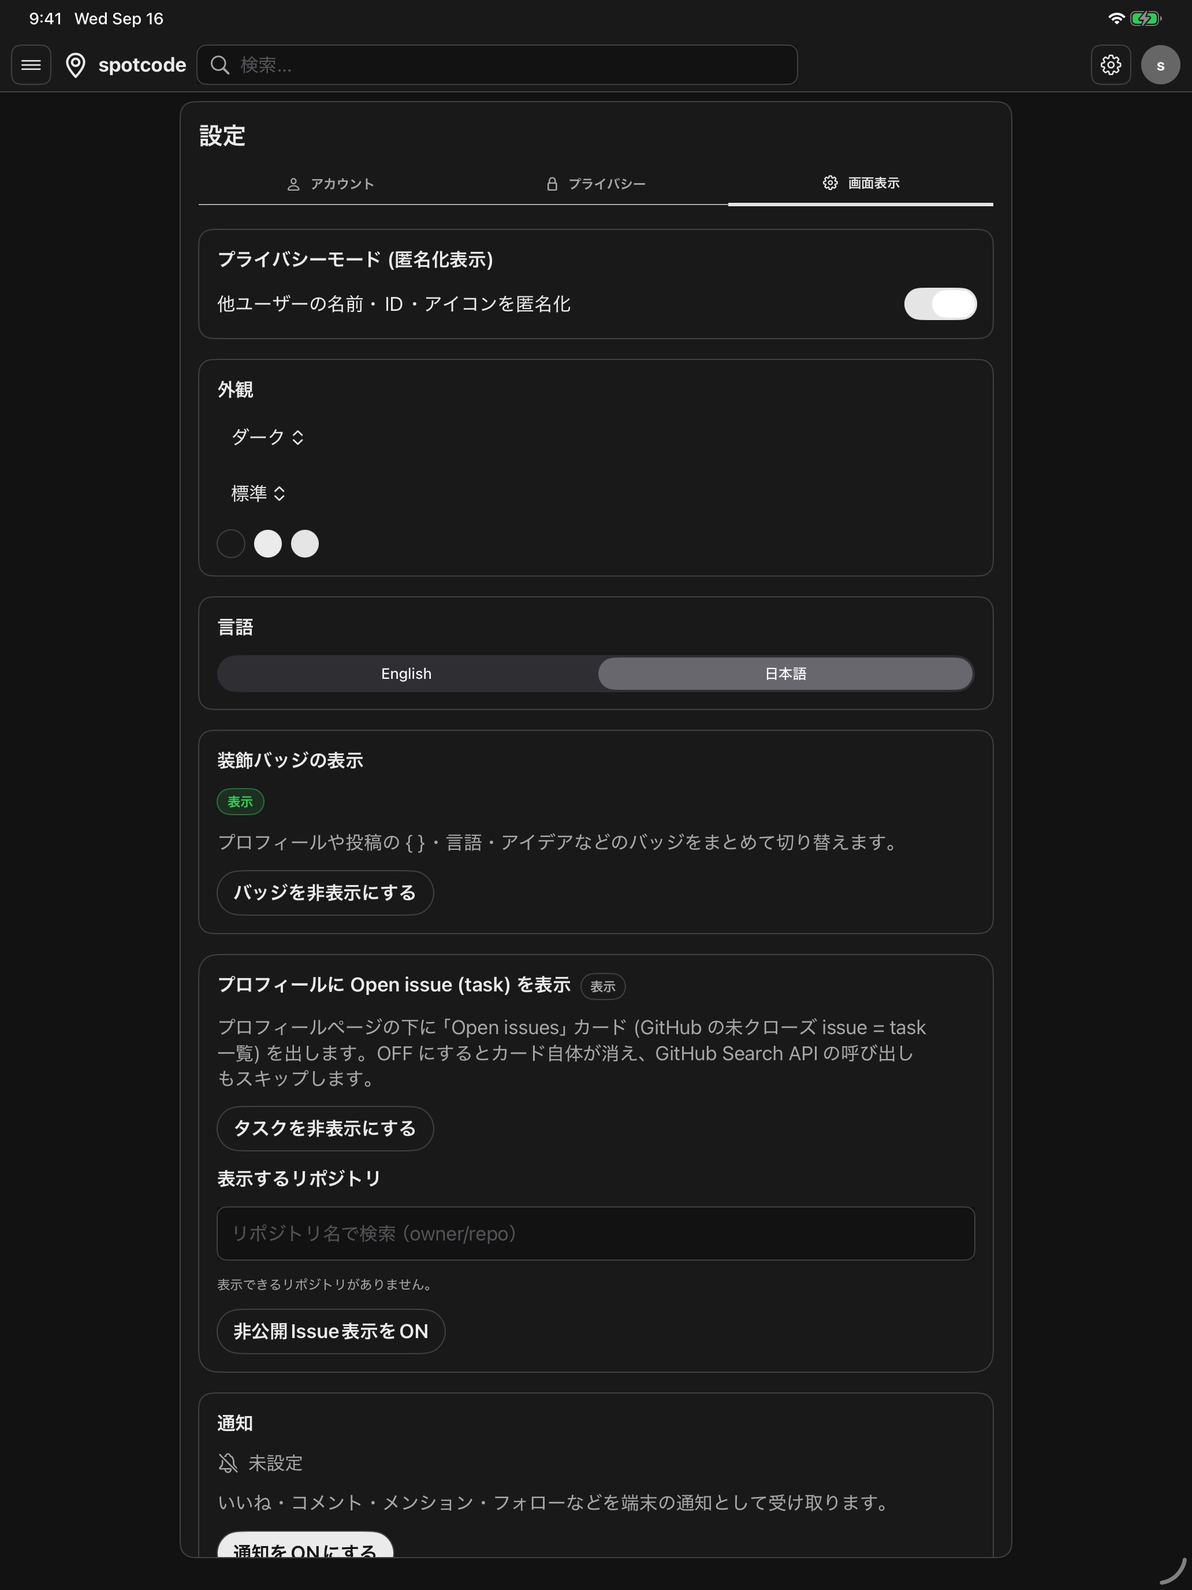
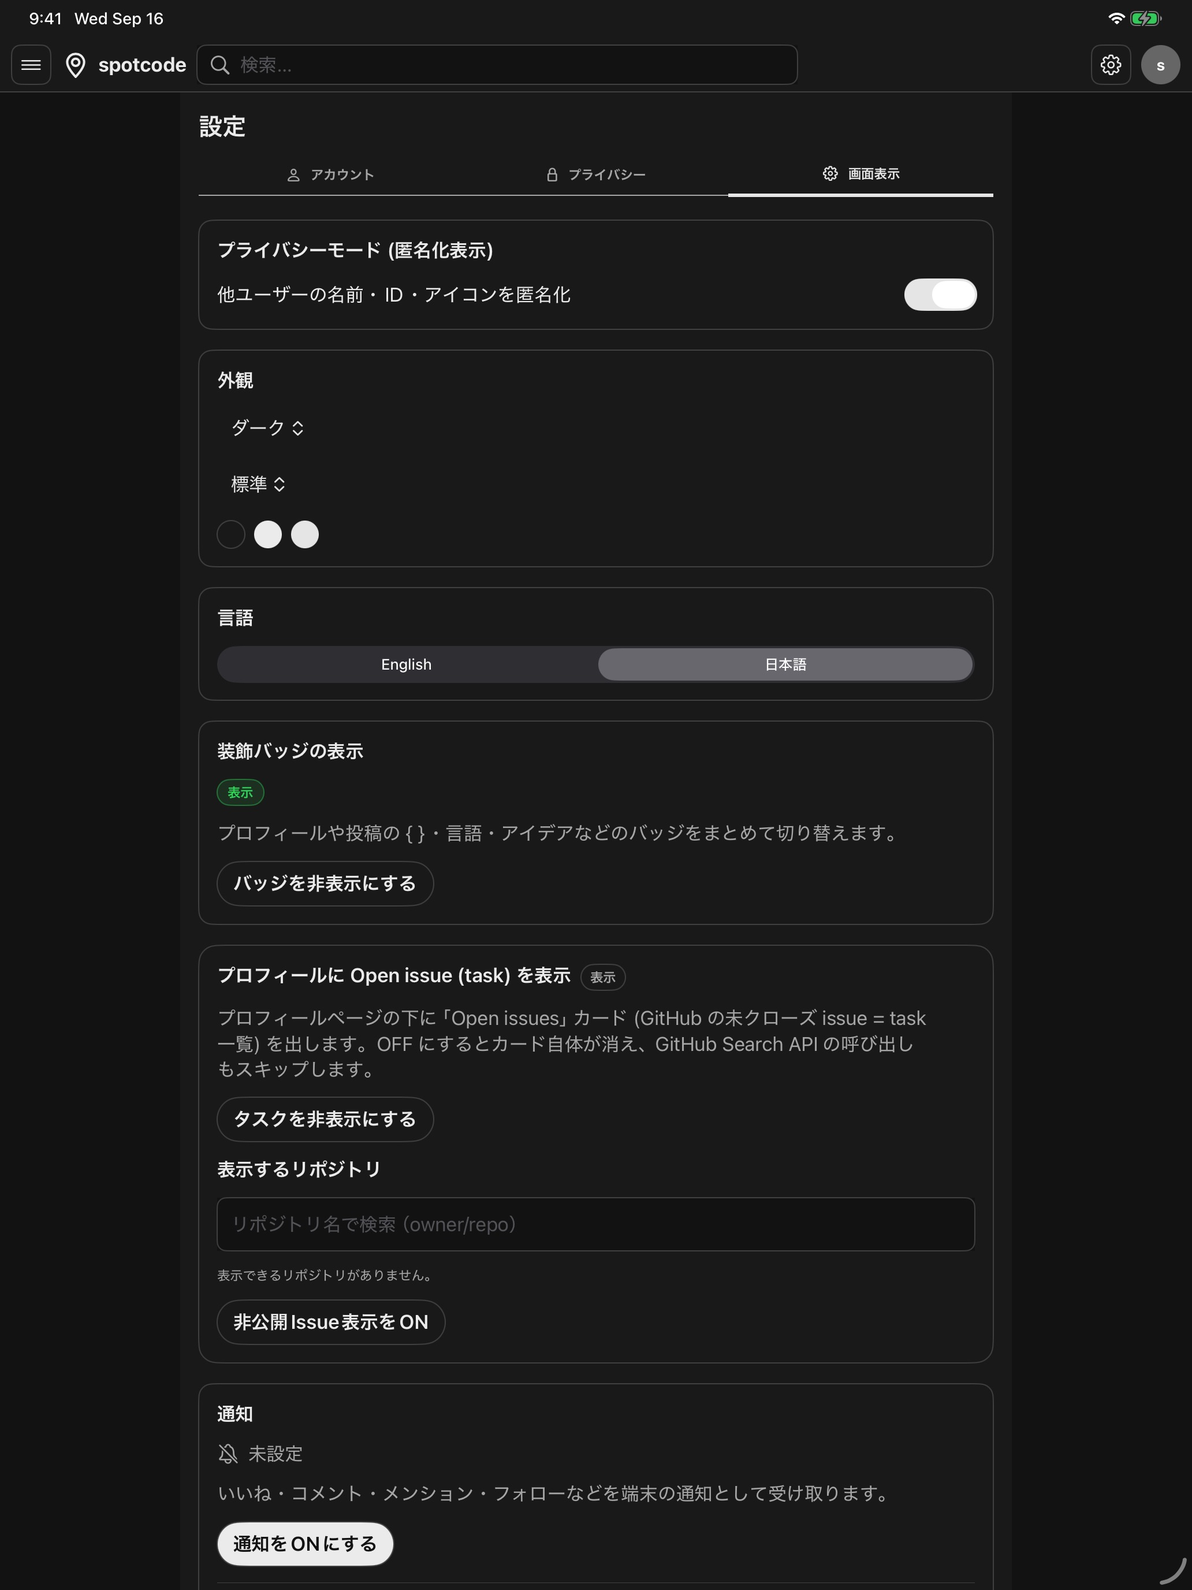
ui

diff --git a/src/css/style.css b/src/css/style.css
@@ -160,24 +160,14 @@ input, textarea, select { font-family: inherit; }
 .dev-chip:hover { background: color-mix(in srgb, var(--warn) 28%, transparent); }
 html[data-dev="1"] .dev-chip { display: inline-flex; align-items: center; }
 
-/* ---------- app 3-column grid (Twitter) ----------
-   All widths in %, not px, so the grid scales smoothly with the
-   viewport instead of locking the side rails at fixed sizes and
-   squishing the middle. The minmax() floor on the centre column
-   prevents flex children (posts, code blocks) from blowing it out. */
+/* Centered reading column shared by every page. */
 .app-grid {
   display: grid;
-  grid-template-columns: 21% minmax(0, 1fr) 25%;
-  /* Without explicit start alignment, CSS Grid defaults cells to
-     `stretch` — on iOS Safari that interacts badly with sticky topbar
-     + viewport-fit=cover and the timeline cell ends up stretched to
-     the dynamic viewport height, pushing all the rendered content
-     (tabs, composer, posts) to the bottom of a huge empty column. */
+  grid-template-columns: minmax(0, 1fr);
   align-items: start;
-  gap: 1.25rem;
-  max-width: 1280px;
+  max-width: 928px;
   margin: 0 auto;
-  padding: 1rem;
+  padding: 0 24px 64px;
 }
 /* Hamburger default: hidden. The mobile @media below flips it to
    inline-flex. Declaring the default BEFORE the @media is essential —
@@ -191,20 +181,6 @@ html[data-dev="1"] .dev-chip { display: inline-flex; align-items: center; }
    on mobile the rail stays sticky, occupies a grid row above the
    timeline, and creates a huge empty gap below the topbar. */
 .left-rail { position: sticky; top: calc(var(--topbar-h) + env(safe-area-inset-top, 0px)); align-self: start; }
-/* Tablet-ish: right rail gets cramped under ~1100px (the "Your
-   activity" / "Trending spots" cards start wrapping their headings
-   vertically), so drop it before that happens. Left rail keeps its
-   full labels until 1024px. */
-@media (max-width: 1100px) {
-  .app-grid { grid-template-columns: 22% minmax(0, 1fr); }
-  .right-rail { display: none; }
-}
-@media (max-width: 1024px) {
-  /* Tablet: collapse the left rail to icon-only. */
-  .app-grid { grid-template-columns: 72px minmax(0, 1fr); }
-  .side-nav__item span:last-child, .side-foot, .compose-cta { display: none; }
-  .side-nav__item { justify-content: center; }
-}
 @media (max-width: 640px) {
   .app-grid {
     grid-template-columns: 1fr;
@@ -304,7 +280,7 @@ html[data-dev="1"] .dev-chip { display: inline-flex; align-items: center; }
   .left-rail .side-nav__item { justify-content: flex-start; }
 }
 
-/* ---------- left rail (Twitter side-nav) ----------
+/* ---------- navigation ----------
    Base `.left-rail { position: sticky }` lives near the .app-grid
    block, BEFORE the @media (max-width: 640px) drawer override —
    see comment up there. */
@@ -3719,20 +3695,30 @@ dialog.card-fullscreen, dialog.card-fullscreen:fullscreen {
 .theme-swatches i:nth-child(3) { background: var(--accent); }
 
 /* A single-column journal, with text navigation and ruled directory rows. */
-.app-grid { display: grid; grid-template-columns: minmax(0, 1fr); max-width: 928px; padding: 0 24px 64px; gap: 0; }
+
 .timeline { border: 0; border-radius: 0; background: var(--bg); overflow: visible; min-height: 0; }
-.topbar { background: var(--bg); box-shadow: none; backdrop-filter: none; }
+.topbar {
+  grid-template-columns: auto minmax(0, 1fr) auto;
+  max-width: 928px; margin-inline: auto;
+  padding-inline: 24px; gap: 28px;
+  background: var(--bg); box-shadow: none; backdrop-filter: none;
+}
+.topbar__search { border: 0; border-bottom: 1px solid var(--border); border-radius: 0; }
+.topbar__actions .icon-btn, .topbar__actions .theme-toggle { border: 0; border-radius: 0; min-width: 40px; min-height: 40px; }
+.topbar__search:focus-within { border-bottom-color: var(--text); }
+.topbar__actions .btn { border-radius: 4px; }
+.journal-directory-title { margin: 16px 0 24px; font-size: 1.55rem; letter-spacing: -.025em; }
 .brand-mark, .brand-slash, .brand-repo { display: none; }
-.journal-hero { padding: clamp(36px, 7vw, 80px) 0 32px; }
+.journal-hero { padding: 24px 0 16px; display: flex; align-items: baseline; flex-wrap: wrap; gap: 8px 20px; }
 .journal-eyebrow { color: var(--muted); font-size: .78rem; letter-spacing: .13em; font-weight: 600; }
-.journal-hero h1 { margin: 18px 0 24px; font-size: clamp(2.8rem, 7vw, 4.5rem); line-height: 1.05; letter-spacing: -.055em; font-weight: 700; }
-.journal-hero p { margin: 0 0 12px; line-height: 1.8; }
+.journal-hero h1 { margin: 0; font-size: 1.6rem; line-height: 1.3; letter-spacing: -.035em; font-weight: 700; }
+.journal-hero p { margin: 0; line-height: 1.6; }
 .journal-hero .journal-lead { font-size: clamp(1.05rem, 2vw, 1.3rem); font-weight: 500; }
 .journal-hero p:last-child { color: var(--muted); font-size: .95rem; }
-.journal-directory { border-top: 1px solid var(--text); margin-bottom: 40px; }
+.journal-directory { border-top: 1px solid var(--border); margin-bottom: 12px; }
 .journal-directory__row, .journal-compose > summary {
   display: grid; grid-template-columns: minmax(100px, .45fr) 1fr auto; gap: 20px; align-items: baseline;
-  padding: 20px 8px; border-bottom: 1px solid var(--border); color: var(--text); text-decoration: none; cursor: pointer;
+  padding: 14px 8px; border-bottom: 1px solid var(--border); color: var(--text); text-decoration: none; cursor: pointer;
 }
 .journal-compose > summary { list-style: none; }
 .journal-compose > summary::-webkit-details-marker { display: none; }
@@ -3745,23 +3731,23 @@ dialog.card-fullscreen, dialog.card-fullscreen:fullscreen {
 .timeline__head { position: static; display: flex; justify-content: flex-start; gap: 24px; background: transparent; border-bottom: 1px solid var(--border); }
 .timeline__head .tab { flex: 0 0 auto; border-radius: 0; padding: 12px 0; font-size: .86rem; }
 .timeline__head .tab::after { border-radius: 0; height: 1px; left: 0; right: 0; }
-.post { display: block; padding: 28px 4px; background: transparent; border-bottom: 1px solid var(--border); border-radius: 0; }
+.post { display: block; padding: 22px 4px; background: transparent; border-bottom: 1px solid var(--border); border-radius: 0; }
 .post:hover { background: var(--surface-2); }
-.post__head { font-size: .8rem; margin-bottom: 14px; gap: 8px; }
+.post__head { font-size: .9rem; margin-bottom: 10px; gap: 8px; }
 .post__head .post__name { font-weight: 600; }
-.post__handle, .post__time, .post__sep { font-size: .78rem; }
+.post__handle, .post__time, .post__sep { font-size: .84rem; }
 .post__body { font-size: 1rem; line-height: 1.85; }
 .post__actions { justify-content: flex-start; gap: 14px; flex-wrap: wrap; margin-top: 16px; }
 .post__actions .act { flex: 0 0 auto; font-size: .75rem; min-height: 40px; }
 .right-rail { position: static; display: grid; grid-template-columns: repeat(2, minmax(0, 1fr)); gap: 32px; margin-top: 48px; border-top: 1px solid var(--text); padding-top: 32px; }
 @media (min-width: 641px) {
   .left-rail { position: static; display: flex; align-items: center; min-width: 0; overflow-x: auto; border-bottom: 1px solid var(--border); }
-  .side-nav { display: flex; flex: 1; gap: 0; border: 0; }
+  .left-rail .side-nav { display: flex; flex-direction: row; flex: 1; gap: 0; border: 0; }
   .side-nav__item { padding: 16px 14px; white-space: nowrap; border: 0; border-radius: 0; font-size: .86rem; min-height: 48px; }
   .side-nav__item .side-nav__icon, .side-nav__item > svg { display: none; }
   .side-nav__item span:last-child { display: inline; }
   .side-nav__item.is-active { box-shadow: inset 0 -1px var(--text); background: transparent; }
-  .left-rail .compose-cta { display: block; width: auto; margin: 0; padding: 12px 14px; white-space: nowrap; border: 0; border-radius: 0; background: transparent; color: var(--text); font-size: .86rem; }
+  .left-rail .compose-cta { display: none; width: auto; margin: 0; padding: 12px 14px; white-space: nowrap; border: 0; border-radius: 0; background: transparent; color: var(--text); font-size: .86rem; }
   .compose-cta__ico, .left-rail .side-foot { display: none; }
 }
 @media (max-width: 640px) {
@@ -3771,4 +3757,53 @@ dialog.card-fullscreen, dialog.card-fullscreen:fullscreen {
   .post__actions { gap: 10px; }
   .journal-compose .composer { display: block; }
   .journal-compose .composer > .avatar { display: none; }
+}
+
+.timeline__head .tab::after { width: 100%; transform: none; left: 0; right: 0; }
+.profile-cover { display: none; }
+.profile-top { margin-top: 0; padding: 32px 4px 16px; align-items: center; gap: 20px; }
+.profile-top .avatar--xl { width: 56px; height: 56px; font-size: 1.5rem; border: 0; box-shadow: none; }
+.profile-top__actions { flex-wrap: wrap; justify-content: flex-end; }
+.profile-top__actions .btn { border-radius: 4px; font-weight: 500; }
+.profile-id { padding: 8px 4px 24px; }
+.profile-name { font-size: 2rem; letter-spacing: -.03em; }
+
+/* Carry the same typography and ruled lists through the secondary pages. */
+.settings { padding: 40px 0; }
+.settings__title, .repos-head__title, .notif-head h2 { font-size: clamp(1.8rem, 4vw, 2.5rem); letter-spacing: -.035em; }
+.settings-card { background: transparent; border: 0; border-top: 1px solid var(--border); border-radius: 0; box-shadow: none; padding: 24px 0; margin-bottom: 12px; }
+.settings-nav { border-radius: 0; background: transparent; flex-wrap: wrap; }
+.settings-nav__tab { border-radius: 0; min-height: 44px; }
+.settings-card .btn, .repo-card__compose { border-radius: 4px; }
+.repos-head { text-align: left; padding: 40px 0 28px; }
+.repos-head__icon { display: none; }
+.repos-head__sub { margin: 12px 0 0; line-height: 1.8; }
+.repos-list { padding: 0 0 32px; gap: 0; }
+.repo-card { border: 0; border-top: 1px solid var(--border); border-radius: 0; background: transparent; padding: 24px 4px; }
+.repo-card:last-child { border-bottom: 1px solid var(--border); }
+.repo-card__head { flex-wrap: wrap; }
+.repo-card__title { min-width: 0; overflow-wrap: anywhere; }
+.notif-head { position: static; padding: 40px 0 24px; background: transparent; }
+.notif { padding: 24px 4px; }
+.right-rail .card { border: 0; border-radius: 0; padding: 0; background: transparent; }
+.side-nav__item:focus-visible, .compose-cta:focus-visible { outline: 2px solid var(--accent); outline-offset: -2px; }
+@media (max-width: 640px) {
+  .topbar { grid-template-columns: auto 1fr auto; padding-inline: 20px; gap: 8px; }
+  .topbar__search { grid-row: 2; grid-column: 1 / -1; min-height: 40px; }
+  .topbar__actions .icon-btn { min-width: 40px; min-height: 40px; }
+  .left-rail { background: var(--bg); box-shadow: none; }
+  .side-nav { gap: 0; border-top: 1px solid var(--text); }
+  .side-nav__item { border-radius: 0; border-bottom: 1px solid var(--border); min-height: 56px; padding: 16px 8px; }
+  .side-nav__item.is-active { box-shadow: inset 2px 0 var(--text); background: var(--surface-2); }
+  .left-rail .compose-cta { background: transparent; color: var(--text); border-radius: 0; text-align: left; border-bottom: 1px solid var(--border); margin: 0; min-height: 56px; }
+  .left-rail .compose-cta:hover { background: var(--surface-2); }
+  .settings { padding-top: 28px; }
+}
+
+/* Keep reading text neutral; the selected theme still colors accents and surfaces. */
+html[data-theme="light"] body { --text: #202124; --muted: #555b64; }
+html[data-theme="dark"] body { --text: #edf0f3; --muted: #b2bac5; }
+@media (min-width: 641px) {
+  .left-rail .side-nav__item { flex: 0 0 auto; }
+  .left-rail .compose-cta { margin-left: auto; }
 }

diff --git a/ios/App/App/NativeViews.swift b/ios/App/App/NativeViews.swift
@@ -534,12 +534,7 @@ private struct DesktopNavigation: View {
                         .accessibilityAddTraits(section == item ? .isSelected : [])
                         .accessibilityIdentifier("desktop.nav.\(item.rawValue)")
                 }
-                Button {
-                    if model.session == nil { showLogin = true } else { composing = true }
-                } label: {
-                    Text(NSLocalizedString("投稿を書く", comment: "")).font(.subheadline.weight(.semibold))
-                        .padding(.horizontal, 18).frame(minHeight: 48)
-                }.buttonStyle(DesktopMenuRowStyle()).keyboardShortcut("n", modifiers: .command)
+
             }
         }
         .overlay(alignment: .bottom) { Rectangle().fill(SpotcodeTheme.border).frame(height: 1) }
@@ -879,40 +874,6 @@ private struct AccountSwitcher: View {
     }
 }
 
-private struct JournalHeader: View {
-    let compose: () -> Void
-    let explore: () -> Void
-    var body: some View {
-        VStack(alignment: .leading, spacing: 0) {
-            Text(NSLocalizedString("開発・アイデア・場所", comment: ""))
-                .font(.caption.weight(.semibold)).tracking(2).foregroundColor(SpotcodeTheme.muted)
-            Text("spotcode").font(.system(size: SpotcodeLayout.value(64, 46), weight: .bold))
-                .tracking(-2).padding(.top, 16).padding(.bottom, 20)
-            Text(NSLocalizedString("つくる人の活動記録。", comment: ""))
-                .font(.title3.weight(.medium)).padding(.bottom, 10)
-            Text(NSLocalizedString("アイデア、開発の進捗、気になる場所を残す。", comment: ""))
-                .font(.subheadline).foregroundColor(SpotcodeTheme.muted).padding(.bottom, 36)
-            Rectangle().fill(SpotcodeTheme.text).frame(height: 1)
-            journalLink("投稿を書く", detail: "アイデアや進捗を残す", action: compose)
-            journalLink("場所から探す", detail: "地図で近くの投稿を見る", action: explore)
-        }
-        .frame(maxWidth: .infinity, alignment: .leading)
-        .padding(.top, SpotcodeLayout.value(48, 28)).padding(.bottom, 32)
-    }
-    private func journalLink(_ title: String, detail: String, action: @escaping () -> Void) -> some View {
-        Button(action: action) {
-            HStack(alignment: .firstTextBaseline, spacing: 20) {
-                Text(NSLocalizedString(title, comment: "")).font(.subheadline.weight(.semibold))
-                    .frame(minWidth: 100, alignment: .leading)
-                Text(NSLocalizedString(detail, comment: "")).font(.caption).foregroundColor(SpotcodeTheme.muted)
-                Spacer(minLength: 0)
-                Image(systemName: "arrow.up.right").font(.caption)
-            }.padding(.horizontal, 8).padding(.vertical, 20).frame(maxWidth: .infinity, alignment: .leading)
-                .contentShape(Rectangle())
-        }.buttonStyle(DesktopMenuRowStyle())
-    }
-}
-
 struct TimelineView: View {
     @Environment(\.appColorTheme) private var appColorTheme
     @EnvironmentObject private var model: AppModel
@@ -926,7 +887,23 @@ struct TimelineView: View {
         let _ = appColorTheme
 
         VStack(spacing: 0) {
-            if selectedTab != 0 { TimelineTabs(selected: $selectedTab) }
+            HStack(alignment: .center, spacing: 12) {
+                Text(NSLocalizedString("みんなの活動", comment: ""))
+                    .font(.headline)
+                Spacer(minLength: 8)
+                Button { composing = true } label: {
+                    Label(NSLocalizedString("投稿を書く", comment: ""), systemImage: "square.and.pencil")
+                        .font(.subheadline.weight(.semibold))
+                        .padding(.horizontal, 12).padding(.vertical, 10)
+                        .background(SpotcodeTheme.surface2)
+                        .clipShape(RoundedRectangle(cornerRadius: 5))
+                }
+                .buttonStyle(SpotcodePlainButtonStyle())
+                .accessibilityIdentifier("timeline.compose")
+            }
+            .foregroundColor(SpotcodeTheme.text)
+            .padding(.vertical, 12)
+            TimelineTabs(selected: $selectedTab)
             if selectedTab == 2 {
                 NativeMapView(cityDestination: cityDestination).id(cityDestination?.id)
             } else if selectedTab == 1 {
@@ -936,11 +913,6 @@ struct TimelineView: View {
             } else {
                 ScrollView {
                     LazyVStack(spacing: 0) {
-                        JournalHeader(compose: { composing = true }, explore: { selectedTab = 2 })
-                        Text(NSLocalizedString("みんなの活動", comment: ""))
-                            .font(.title2.weight(.bold)).frame(maxWidth: .infinity, alignment: .leading).padding(.bottom, 16)
-                        TimelineTabs(selected: $selectedTab)
-
                         ForEach(model.posts) { post in
                             PostRow(post: post).onAppear {
                                 if post.id == model.posts.last?.id && model.timelinePageError == nil && !ProcessInfo.processInfo.arguments.contains("-SpotcodeCaptureFullPage") {
@@ -3790,11 +3762,9 @@ private struct ProfileHero: View {
         let _ = appColorTheme
 
         VStack(alignment: .leading, spacing: 0) {
-            LinearGradient(colors: [Color(red: 8/255, green: 70/255, blue: 111/255), Color(red: 30/255, green: 116/255, blue: 77/255)], startPoint: .topLeading, endPoint: .bottomTrailing)
-                .frame(height: 176)
             VStack(alignment: .leading, spacing: 10) {
                 HStack(alignment: .top) {
-                    AvatarView(profile: profile, size: 104).padding(5).background(SpotcodeTheme.surface).clipShape(Circle()).offset(y: -63)
+                    AvatarView(profile: profile, size: 56)
                     Spacer()
                     if isOwn {
                         Button(NSLocalizedString("Edit profile", comment: "")) { editing = true }.spotcodeFont(14, weight: .bold, fallback: SpotcodeLayout.bodyFont.weight(.bold)).foregroundColor(SpotcodeTheme.background)
@@ -3819,7 +3789,7 @@ private struct ProfileHero: View {
                             }
                         }.padding(.top, 14)
                     }
-                }.frame(height: 63)
+                }.padding(.top, 28).padding(.bottom, 16)
                 HStack(spacing: 14) {
                     NavigationLink(destination: BusinessCardView(profile: profile)) {
                         Label(isOwn ? NSLocalizedString("名刺を共有", comment: "") : NSLocalizedString("名刺を見る", comment: ""), systemImage: "rectangle.on.rectangle")

diff --git a/src/js/views/home.js b/src/js/views/home.js
@@ -4,7 +4,6 @@ import { forYouPage, followingPosts, hydrateQuotedPosts, cachedPosts } from '../
 import { renderPost }     from '../post.js';
 import { currentUser }    from '../auth.js';
 import { displayUser }    from '../posting-identity.js';
-import { url }            from '../router.js';
 import { hydratePostLikes, hydrateRepostsMine, hydrateBookmarksMine, hydratePolls } from '../interactions.js';
 import { t }              from '../i18n.js';
 import { renderTimelineSkeleton } from '../skeleton.js';
@@ -96,20 +95,15 @@ export function renderHome(tab = 'foryou') {
   timelineObserver = null;
   return [
     '<header class="journal-hero">',
-      '<p class="journal-eyebrow">' + t('開発・アイデア・場所') + '</p>',
       '<h1>spotcode</h1>',
-      '<p class="journal-lead">' + t('つくる人の活動記録。') + '</p>',
-      '<p>' + t('アイデア、開発の進捗、気になる場所を残す。') + '</p>',
+      '<p>' + t('みんなの活動') + '</p>',
     '</header>',
     '<section class="journal-directory" aria-label="' + t('活動を見る') + '">',
       '<details class="journal-compose">',
         '<summary><strong>' + t('投稿を書く') + '</strong><span>' + t('アイデアや進捗を残す') + '</span><span aria-hidden="true">↗</span></summary>',
         renderIdeaForm({ user: displayUser(currentUser()) }),
       '</details>',
-      '<a class="journal-directory__row" href="' + url('/repos') + '"><strong>' + t('Repos') + '</strong><span>' + t('制作中のプロジェクトを見る') + '</span><span aria-hidden="true">↗</span></a>',
-      '<a class="journal-directory__row" href="' + url('/spots') + '"><strong>' + t('場所から探す') + '</strong><span>' + t('地図で近くの投稿を見る') + '</span><span aria-hidden="true">↗</span></a>',
     '</section>',
-    '<h2 class="journal-section-title">' + t('みんなの活動') + '</h2>',
     timelineTabs(tab),
     '<div id="timeline-list">',
       loadingTimeline(tab),

diff --git a/src/index.html b/src/index.html
@@ -140,7 +140,7 @@
         <a class="side-nav__item" data-nav="profile"          href="/"              data-ico="user"><span class="side-nav__label" data-i18n>Profile</span></a>
         <a class="side-nav__item" data-route="/settings"      href="/settings"      data-ico="gear"><span class="side-nav__label" data-i18n>Settings</span></a>
       </nav>
-      <button class="compose-cta" id="open-compose"><span class="compose-cta__ico"></span><span data-i18n>New idea</span></button>
+      <button class="compose-cta" id="open-compose"><span class="compose-cta__ico"></span><span data-i18n>投稿を書く</span></button>
       <div class="side-foot" id="side-me"></div>
     </aside>
 

diff --git a/AppStoreConnect/Screenshots/README.md b/AppStoreConnect/Screenshots/README.md
@@ -12,4 +12,14 @@
 devアカウント、匿名化オン、標準テーマのダークモードで撮影しています。
 投稿本文は原文のままです。devアカウントはGitHub未連携のため、リポジトリ画面には連携案内が表示されます。
 
-画像は透明度なし・8ビットのRGB PNGです。言語フォルダ外の画像は以前の撮影分です。
+画像は透明度なし・8ビットのRGB PNGです。今回更新した言語フォルダ外の画像は日本語版のコピーです。未更新の画像は前回分を保持しています。
+
+## 2026-09-16 撮り直し
+
+新しい1列レイアウトで撮影。更新済みのホームは投稿が写っていることを確認しています。
+
+- iPhone: 日本語・英語の全8枚を更新。
+- iPad: 日本語・英語のホーム・リポジトリ・設定の6枚を更新。
+- Mac: 日本語のホーム・ログイン・リポジトリの3枚を更新。設定と英語4枚は、撮影用アプリのウインドウが起動しないため前回分を保持。
+13インチの `02-sign-in.png`（日本語・英語）は、devアカウントの再ログイン待ちのため前回分を保持しています。
+13インチの設定画面には、アップロード用の代替として `04-settings.jpg` も用意しています。
